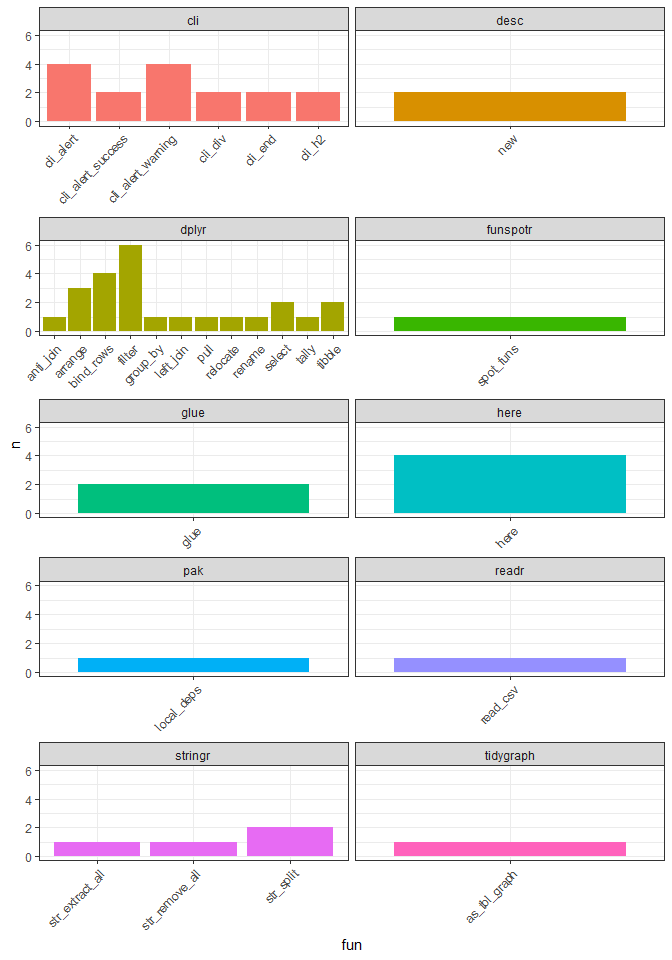
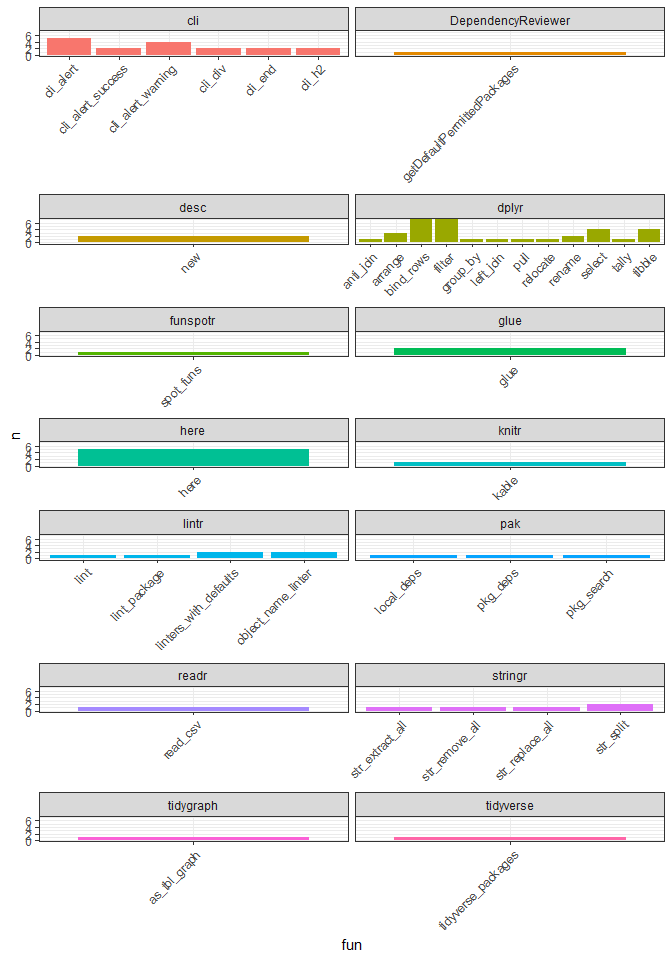
Updated readme

diff --git a/README.md b/README.md
@@ -41,57 +41,38 @@ inside:
 
 ``` r
 checkDependencies()
+#> ℹ Loading metadata databaseℹ Loading metadata database✔ Loading metadata database ... done✔ Loading metadata database ... done
+#> 
 #> 
 #> ── Checking if packages in Imports and Depends have been approved ──
 #> 
-#> ! Found 12 packages in Imports and Depends that are not
+#> ! Found 3 packages in Imports and Depends that are not
 #> approved
-#> →   1) desc
-#> →   2) DT
-#> →   3) funspotr
-#> →   4) ggplot2
-#> →   5) ggraph
-#> →   6) here
-#> →   7) igraph
-#> →   8) readr
-#> →   9) shiny
-#> →   10) shinyAce
-#> →   11) shinyjs
-#> →   12) tidygraph
-#> ! Please add a comment at https://github.com/darwin-eu/DependencyReviewer/issues/6
-#> to request approval for packages (one comment per package).
-#> 
-#> ── Checking if packages in Imports and Depends require recommended version ──
-#> 
-#> ! Found 1 package in Imports and Depends with a different
-#> version required
-#> →   1) dplyr
-#> →     currently required: *
-#> →     should be: >= 1.0.0
-#> ! Please require recommended versions
+#> →   1) funspotr
+#> →   2) lintr
+#> →   3) pak
+#> ! Please add a comment at https://github.com/darwin-eu/DependencyReviewer/issues/6 to request approval for packages with the following message:
+#> → |package |version |date                | downloads_last_month|license            |url                                                     |
+#> |:-------|:-------|:-------------------|--------------------:|:------------------|:-------------------------------------------------------|
+#> |lintr   |3.0.2   |2022-10-19 08:52:37 |                73018|MIT + file LICENSE |https://github.com/r-lib/lintr, https://lintr.r-lib.org |
+#> |pak     |0.3.1   |2022-09-08 20:30:02 |                43430|GPL-3              |https://pak.r-lib.org/                                  |
 ```
 
 *getDefaultPermittedPackages* gets a table of all the ‘permitted’
 packages in the accompanying csv-file.
 
 ``` r
-pander(getDefaultPermittedPackages())
+pander(head(getDefaultPermittedPackages()))
 ```
 
-|  package  |  version  |
-|:---------:|:---------:|
-|    cli    |    NA     |
-| checkmate |    NA     |
-|   glue    |    NA     |
-| magrittr  |    NA     |
-|   rlang   |    NA     |
-|    DBI    |    NA     |
-|  dbplyr   |    NA     |
-|   dplyr   | \>= 1.0.0 |
-|   tidyr   |    NA     |
-|   purrr   |    NA     |
-|  stringr  |    NA     |
-| lubridate |    NA     |
+|  package  | version |
+|:---------:|:-------:|
+| codetools |  4.2.0  |
+|   base    |  4.2.1  |
+|   boot    |  4.2.1  |
+|   class   |  4.2.1  |
+|  cluster  |  4.2.1  |
+| codetools |  4.2.1  |
 
 Function use of all .R files can be investigated using the
 *sumariseFunctionUse* function. It assumes the function is is ran inside
@@ -149,7 +130,6 @@ tallied up for each package.
 
 ``` r
 graphData <- getGraphData()
-#> ℹ Loading metadata database✔ Loading metadata database ... done
 
 library(igraph)
 library(ggraph)
@@ -183,26 +163,39 @@ dependency to get all the dependency information.
 library(pak)
 
 pkg_deps("darwin-eu/DependencyReviewer")
-#> # A data frame: 106 × 32
+#> # A data frame: 139 × 32
 #>    ref       type  direct direc…¹ status package version license needs…² prior…³
 #>    <chr>     <chr> <lgl>  <lgl>   <chr>  <chr>   <chr>   <chr>   <lgl>   <chr>  
 #>  1 darwin-e… gith… TRUE   TRUE    OK     Depend… 0.1.0   Apache… TRUE    <NA>   
-#>  2 MASS      stan… FALSE  FALSE   OK     MASS    7.3-58… GPL-2 … FALSE   recomm…
-#>  3 Matrix    stan… FALSE  FALSE   OK     Matrix  1.5-1   GPL (>… FALSE   recomm…
-#>  4 R6        stan… FALSE  FALSE   OK     R6      2.5.1   MIT + … FALSE   <NA>   
-#>  5 RColorBr… stan… FALSE  FALSE   OK     RColor… 1.1-3   Apache… FALSE   <NA>   
-#>  6 RcppArma… stan… FALSE  FALSE   OK     RcppAr… 0.11.4… GPL (>… FALSE   <NA>   
-#>  7 Rcpp      stan… FALSE  FALSE   OK     Rcpp    1.0.9   GPL (>… FALSE   <NA>   
-#>  8 backports stan… FALSE  FALSE   OK     backpo… 1.4.1   GPL-2 … FALSE   <NA>   
-#>  9 base64enc stan… FALSE  FALSE   OK     base64… 0.1-3   GPL-2 … FALSE   <NA>   
-#> 10 bit64     stan… FALSE  FALSE   OK     bit64   4.0.5   GPL-2 … FALSE   <NA>   
-#> # … with 96 more rows, 22 more variables: md5sum <chr>, sha256 <chr>,
+#>  2 DBI       stan… FALSE  FALSE   OK     DBI     1.1.3   LGPL (… FALSE   <NA>   
+#>  3 MASS      stan… FALSE  FALSE   OK     MASS    7.3-58… GPL-2 … FALSE   recomm…
+#>  4 Matrix    stan… FALSE  FALSE   OK     Matrix  1.5-1   GPL (>… FALSE   recomm…
+#>  5 R6        stan… FALSE  FALSE   OK     R6      2.5.1   MIT + … FALSE   <NA>   
+#>  6 RColorBr… stan… FALSE  FALSE   OK     RColor… 1.1-3   Apache… FALSE   <NA>   
+#>  7 RcppArma… stan… FALSE  FALSE   OK     RcppAr… 0.11.4… GPL (>… FALSE   <NA>   
+#>  8 Rcpp      stan… FALSE  FALSE   OK     Rcpp    1.0.9   GPL (>… FALSE   <NA>   
+#>  9 askpass   stan… FALSE  FALSE   OK     askpass 1.1     MIT + … FALSE   <NA>   
+#> 10 assertth… stan… FALSE  FALSE   OK     assert… 0.2.1   GPL-3   FALSE   <NA>   
+#> # … with 129 more rows, 22 more variables: md5sum <chr>, sha256 <chr>,
 #> #   filesize <int>, built <chr>, platform <chr>, rversion <chr>,
 #> #   repotype <chr>, repodir <chr>, target <glue>, deps <list>, mirror <chr>,
 #> #   sources <list>, remote <list>, error <list>, metadata <list>,
 #> #   dep_types <list>, params <list>, sysreqs <chr>, cache_status <chr>,
 #> #   lib_status <chr>, old_version <chr>, new_version <chr>, and abbreviated
 #> #   variable names ¹directpkg, ²needscompilation, ³priority
+```
+
+To lint your entire package you can use:
+
+```
+darwinLintPackage()
+```
+
+Sometimes a package might be to large to lint entirely, so you can lint
+per file instead
+
+```
+darwinLintFile()
 ```
 
 ## ShinyApp <a name="ShinyApp"></a>
